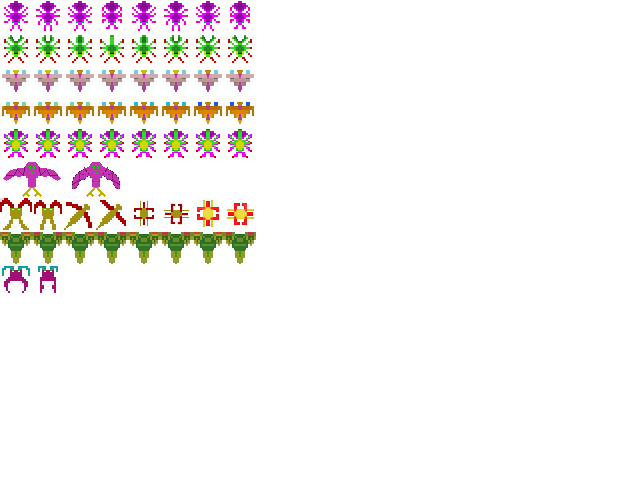
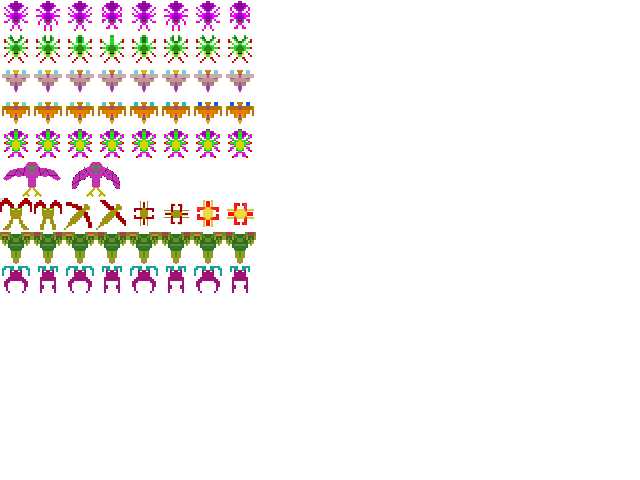
Add files via upload

Changed region(s): [[0.0938, 0.5312, 0.4062, 0.625]]

diff --git a/src/level.js b/src/level.js
@@ -339,7 +339,8 @@ export default class Level {
         new Enemy(400, -400, 90, 4, "./enemies.png"),
         new Enemy(400, -400, 0, 4, "./enemies.png"),
         new Enemy(400, -400, 180, 4, "./enemies.png"),
-        new Enemy(400, -400, 270, 4, "./enemies.png")
+        new Enemy(400, -400, 270, 4, "./enemies.png"),
+        new Enemy(width / 2 - 16, -352, 270, 5, "./enemies.png")
       );
     }
   }

diff --git a/src/enemy.js b/src/enemy.js
@@ -42,6 +42,8 @@ export default class Enemy {
       this.sourceY = 96;
     } else if (this.enemyType === 4) {
       this.sourceY = 128;
+    } else if (this.enemyType === 5) {
+      this.sourceY = 264;
     }
 
     this.numberOfFrames = 8;
